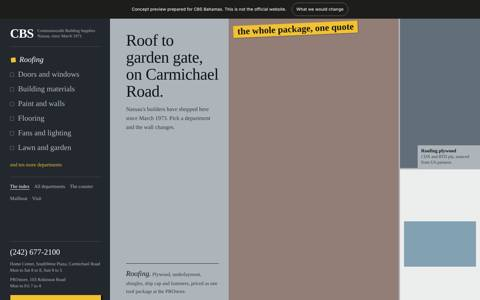
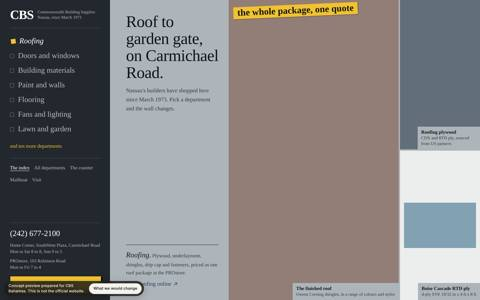
CBS post-mortem: audit CBS as a real webshop (priority C); ban gimmicks and mid-tone whole-page grounds; layout-integrity and dead-space QA blocker; critic must re-score after fixes, otherwise needs-review; scrapbook and handwriting only for food and hospitality
Claude-Session: https://claude.ai/code/session_01BKds8nJkxD2wBKhtSHhqqd

diff --git a/.claude/skills/art-director/SKILL.md b/.claude/skills/art-director/SKILL.md
@@ -13,7 +13,8 @@ sites in its category. Rules below exist only because earlier rounds failed; tas
 - **Generation 1 (55 sites): one template.** Workers copied one reference site's code: same sticky header, "Key information" band, section order, cream background, tracked labels, fade-ups, drawn SVG and toy 3D scenes.
 - **Generation 2, first try: a lottery and paperwork.** Directions were dealt by least-used, not by fit (a marina palette on a web designer, handwriting on a builders' merchant). Pages looked like forms and ledgers (section codes, form numbers, credit lists) because builders optimised for rules.
 - **Everyone was blind.** The sandbox blocked outside photos and fonts, so builder and critic judged grey boxes in a fallback serif. References were read as text, never seen.
-- **Wrong kind of site.** Businesses with real webshops, listings or booking engines got brochure concepts, a downgrade.
+- **Wrong kind of site.** Businesses with real webshops, listings or booking engines got brochure concepts, a downgrade (CBS has a full online store; it got a one-page front door).
+- **Fixes applied blindly.** Critic changes were applied without re-scoring, so 2/5 pages were published as done.
 - **Hard-coded sameness.** A full-width black concept bar opened every site (now a small floating tag). Shared defaults (shadcn styling, effect components, one motion wrapper) leaked into every page.
 
 ## 1. Understand (before any design)
@@ -76,6 +77,10 @@ there one clear typographic idea and enough space? Iterate up to three times. On
 - shadcn and Radix are for behaviour and accessibility only: restyle completely; no default rounded-bordered SaaS look. Magic UI and React Bits effects only when the direction needs that effect; never decorative beams, sparkles or gradients.
 - No generation-1 clones (distinct.mjs blocks them): "Key information" band, sticky blurred header with pill button, shared fade-up-blur `Reveal`, 1440 px + 40 px container, tracked uppercase eyebrow above every heading (unless the type system uses them), "<Name>, <place>, since <year>" headlines, last-line-italic headline trick.
 - Dark grounds only for genuinely nocturnal or deep-water businesses, and half the page stays light.
+- The page ground is light (a tinted off-white from the lane). The lane's signature colour is a FIELD for one or two full-width sections, never the whole page: a whole site in mid grey, aqua or yellow looks dull or cheap (CBS was entirely galvanised grey).
+- No gimmicks: no tape, stickers, rotated labels, handwritten notes or "pinned" photos, unless the business is genuinely handmade (a bakery, a wedding planner) and then once. CBS covered a builders' merchant in yellow tape and handwriting; it read as a joke.
+- Layout integrity: a side navigation column is full height and sticky or it does not exist; no column, gutter or band may sit empty for more than one screen; content fills the width the grid promises. CBS's dark index column ended after one screen and left a grey void down the rest of the page.
+- One clear hero idea: a large photograph or a large statement, not a mosaic of six captioned boxes.
 - Phone, place and the primary action are reachable from the first screen, placed elegantly.
 - Two real interactions that use the business's subject (pick a cottage and see its photos and rates, filter the catalogue, check your boat against the slip limits). For shops: product filtering and a cart drawer; for bookings: the date and room or tour flow.
 - Motion is quiet and purposeful: one entrance idea for the hero, gentle scroll moments, crisp hover states; honour prefers-reduced-motion.
@@ -83,4 +88,4 @@ there one clear typographic idea and enough space? Iterate up to three times. On
 ## 7. Verify with real eyes
 1. `qa.mjs` (if it prints BLIND, say so in notes), `interact.mjs`, `distinct.mjs` (fix every blocker).
 2. Fresh-eyes critic: spawn a general-purpose subagent with this prompt and the paths: "You are the creative director of an award-winning studio. Look at <index-desktop.png>, <index-mobile.png>, the reference screenshots <ref1-desktop.png>, <ref2-desktop.png>, and factory/qa/_contact.png (other sites in this repo). 1) Does this look like premium hand-made work for this specific business, or like AI output, a template or paperwork? Be specific and harsh. 2) Score 1-5: photography, typography, composition and space, colour, fit to the business and its real web setup, distinct from the contact sheet, would sit next to the references. 3) The three changes that would most raise it."
-3. Every score must be 4 or more. Apply the changes and re-run once or twice. Record the final scores in status `critic`.
+3. Every score must be 4 or more. Apply the changes, rebuild, and ask the critic to re-score the NEW screenshots: never record first-pass scores as final or mark changes "not re-scored" (CBS and BVG published with scores of 2 and 3 because fixes were applied blindly). If after two fix passes any score is still below 4, set status `state` to "needs-review" with the reason instead of "built" and still publish, so Balazs sees it is not ready.

diff --git a/.claude/skills/art-director/references/palettes.md b/.claude/skills/art-director/references/palettes.md
@@ -1,9 +1,10 @@
 # Palette lanes (Bahamian sources)
 
 A lane is a colour world taken from a real Bahamian place or material. The hex values are starting
-points: refine them from the business's own photos, logo or the exact place. "Ground" is the main
-page background: it defines the site's first impression, so lanes deliberately differ in ground.
-Only lane P01 has a near-white ground. Generation 1 used near-white on 52 of 52 sites; that is over.
+points: refine them from the business's own photos, logo or the exact place. In the table, "Ground" is the
+lane's signature FIELD colour: use it for one or two full-width sections (a hero band, a feature, the footer).
+The page itself sits on a light tint of the lane (for example the field colour mixed 8-12% into off-white), never
+the same cream on every site, never the field colour over the whole page (CBS was grey from top to bottom).
 
 | Lane | Source | Ground | Ink | Accents | Fits |
 |---|---|---|---|---|---|
@@ -23,8 +24,8 @@ Only lane P01 has a near-white ground. Generation 1 used near-white on 52 of 52 
 | P14 Blue hole | the deep blue of Dean's and Andros blue holes | #0B4F6C (deep blue ground) | #F3F7F6 | #9ED8DB, #F2D16B | dive, tours, water tech |
 
 Rules
-- Ground must match the lane: QA reads the computed body background and blocks a site whose lane is not P01, P10 or P12 but whose ground is near-white (lightness > 90 and chroma < 6).
-- Use the ground for whole sections; tonal shifts happen between the lane's own colours, not back to white.
+- Page background: a light tint of the lane (distinct.mjs blocks a mid-tone whole-page background). The field colour carries one or two full-width sections.
+- Tonal shifts happen between the lane's own colours.
 - Orange and red stay banned as accents unless they are the business's real brand colour. Coral pink and salmon are allowed.
 - No purple-to-blue gradients. Gradients only between two colours of the same lane.
 - A dark-ground lane (P04, P05, P13, P14) may be the whole site's ground; it must still have one light section (a photograph-led or paper section) for rhythm.

diff --git a/CLAUDE.md b/CLAUDE.md
@@ -32,4 +32,4 @@ The queue orders by audit priority: A (SMEs with no site or a weak one), B (SMEs
 ## Anti-patterns banned on every site
 Dark overlays on hero images. Orange/red as the accent color (unless it is the business's real brand color). Card-grid menus or card-grid "services" that look like a SaaS template. Bold condensed uppercase display fonts. Full-dark backgrounds for the whole site, unless the dealt palette lane has a dark ground (P04, P05, P13, P14), which must still include one light section. "Book a Table" CTA copy. Star-rating testimonial sections. Generic placeholder or stock images. Purple/blue AI gradients. Inter/Roboto/Arial/system as the display face. Three-icon "feature" rows with emoji. "Welcome to our website". Lorem ipsum. Fake counters ("500+ happy clients") without a sourced number.
 
-Every generation-1 clone is also banned (and blocked by `distinct.mjs`): a "Key information" band under the hero, the sticky blurred header with pill button, the shared `Reveal` fade-up-blur, the 1440 px + 40 px container, tracked uppercase eyebrows above every heading (unless the type system uses them), "<Name>, <place>, since <year>" headlines, near-white page grounds outside lanes P01/P10/P12, SVG scene illustrations.
+Every generation-1 clone is also banned (and blocked by `distinct.mjs`): a "Key information" band under the hero, the sticky blurred header with pill button, the shared `Reveal` fade-up-blur, the 1440 px + 40 px container, tracked uppercase eyebrows above every heading (unless the type system uses them), "<Name>, <place>, since <year>" headlines, a mid-tone colour (grey, aqua, yellow) over the whole page, tape/sticker/handwriting gimmicks, side columns that end and leave empty space, SVG scene illustrations.

diff --git a/factory/HANDOFF.md b/factory/HANDOFF.md
@@ -35,6 +35,6 @@ The pipeline was then consolidated (Nov 8 evening). The art-director skill's "Wh
 2. **Reference taste.** Ask Balazs for 3-5 sites he loves per niche. Save the links in `factory/references.md` and use them as ref1/ref2 in look.mjs.
 3. **Pilot with Balazs watching: Bell Channel** (flagged reroll), then BVG. Hero options first, his pick, then the full page. Write down what made it work.
 4. **Only after he approves:** scale. Use update_trigger on trig_01NAXZryxHm6E5CQXcGA7DN3 (Reroll sites) or a new worker task with run_once_at a few minutes ahead. fire_trigger and create_trigger were blocked by the safety check in the long session.
-5. Thermoset and CBS were built on the rejected rules: reroll them.
+5. Thermoset was built on the rejected rules: reroll it. CBS is a real webshop (audit priority C): rebuild it only as a full shop concept, after the A and B businesses. Its failure analysis is in the art-director "What went wrong" and taste rules.
 
 Lovable image studio: workspace daQesEM9Br73deJHgggx, about 1 credit per 4 images. Images are published at ip-assets-<slug>.lovable.app and hotlinked.
